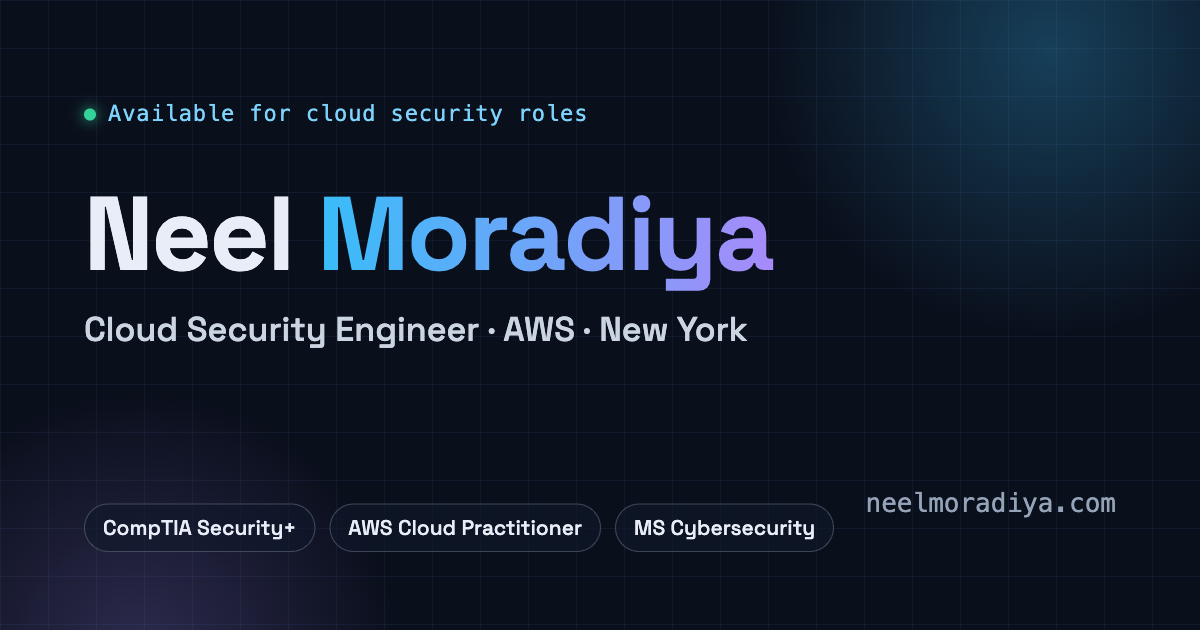
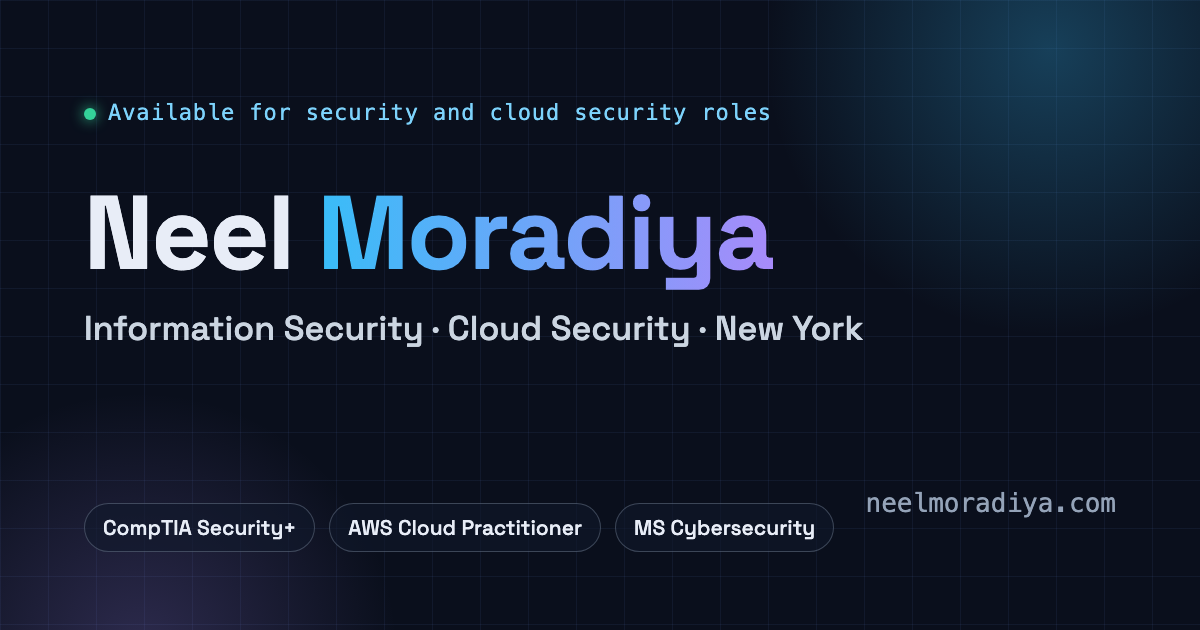
Correct current role: Information Security & IT Consultant at Legend Drugs

diff --git a/og.html b/og.html
@@ -16,8 +16,8 @@ h1 span{background:linear-gradient(90deg,#38bdf8,#a78bfa);-webkit-background-cli
 .p b{font:500 21px SG;padding:10px 18px;border:1px solid rgba(148,163,184,.35);border-radius:999px;background:rgba(15,23,42,.6)}
 .u{position:absolute;right:84px;bottom:86px;font:500 26px ui-monospace,Menlo,monospace;color:#94a3b8}
 </style></head><body><div class="grid"></div><div class="g1"></div><div class="g2"></div>
-<div class="c"><p class="k"><i></i>Available for cloud security roles</p>
+<div class="c"><p class="k"><i></i>Available for security and cloud security roles</p>
 <h1>Neel <span>Moradiya</span></h1>
-<p class="t">Cloud Security Engineer · AWS · New York</p>
+<p class="t">Information Security · Cloud Security · New York</p>
 <div class="p"><b>CompTIA Security+</b><b>AWS Cloud Practitioner</b><b>MS Cybersecurity</b></div></div>
 <p class="u">neelmoradiya.com</p></body></html>
